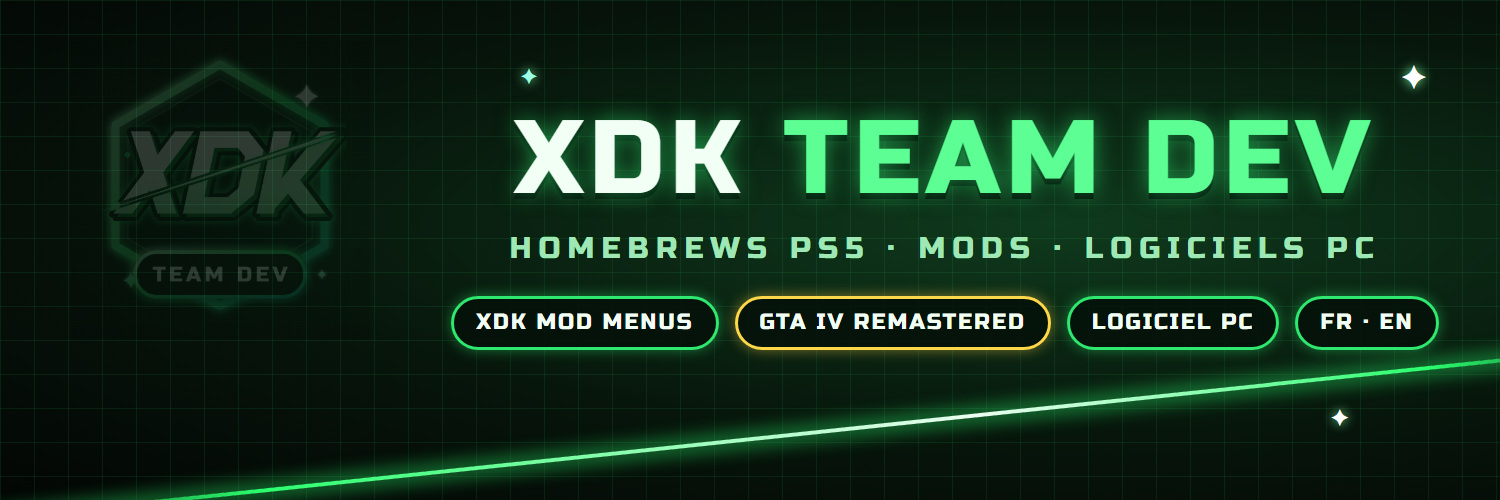
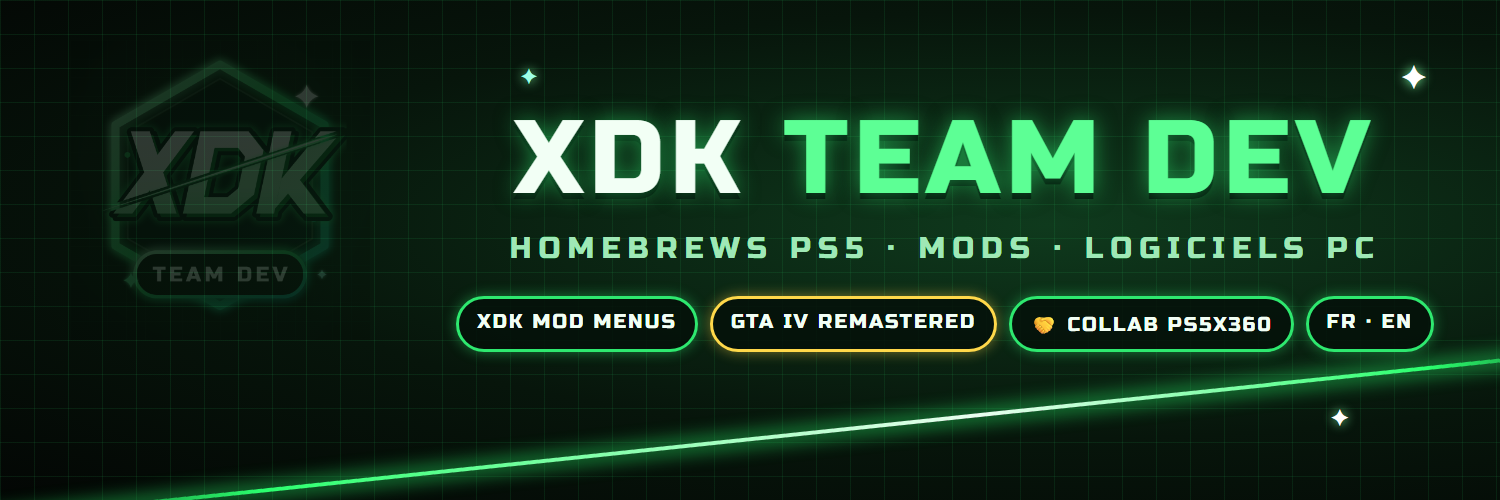
Profil : collab PS5X360 (projet de BrinooTk) sur la bannière et dans le README

Changed region(s): [[0.276, 0.57, 0.9813, 0.72]]

diff --git a/README.md b/README.md
@@ -43,10 +43,10 @@
 - **[Discord XDK TEAM DEV](https://discord.gg/zEC35KSuxt)** : homebrews PS5, logiciels PC, aide et nouvelles versions, en français et en anglais · PS5 homebrews, PC software, help and new releases, in French and English.
 - **[Discord XDK TEAM GAMES](https://discord.gg/8cUgTAHySB)** : nos jeux Roblox · our Roblox games.
 
-## 🙏 Merci · Thanks
+## 🤝 Collab PS5X360 · Merci · Thanks
 
-Nos menus Xbox 360 tournent dans **[PS5X360](https://github.com/BrinooTk/PS5X360)**, l'émulateur Xbox 360 pour PS5 créé par **[BrinooTk](https://github.com/BrinooTk)** ([@BrinoTk](https://x.com/BrinoTk)). Merci pour ta confiance !
-Our Xbox 360 menus run in **PS5X360**, the Xbox 360 emulator for PS5 made by **BrinooTk**. Thank you for your trust!
+On collabore avec **[PS5X360](https://github.com/BrinooTk/PS5X360)**, l'émulateur Xbox 360 pour PS5 créé par **[BrinooTk](https://github.com/BrinooTk)** ([@BrinoTk](https://x.com/BrinoTk)) : nos menus et GTA IV Remastered tournent dedans. PS5X360 est son projet, pas le nôtre. Merci pour ta confiance !
+We collaborate with **PS5X360**, the Xbox 360 emulator for PS5 made by **BrinooTk**: our menus and GTA IV Remastered run in it. PS5X360 is his project, not ours. Thank you for your trust!
 
 <div align="center">
 
